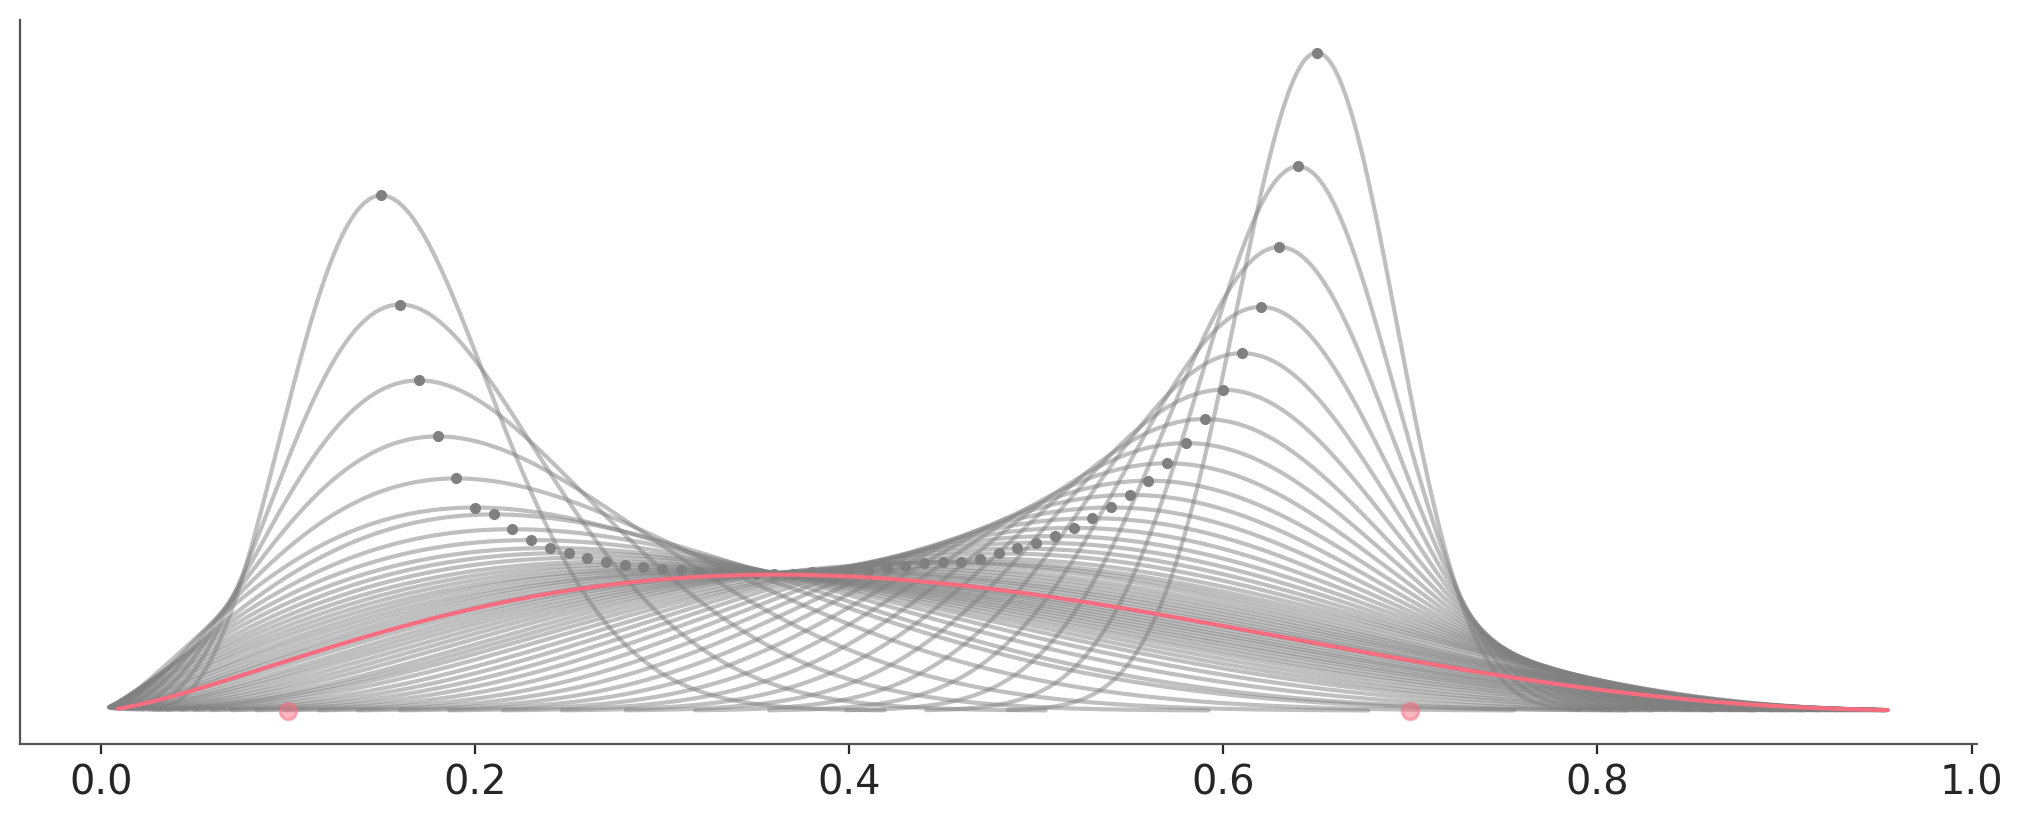
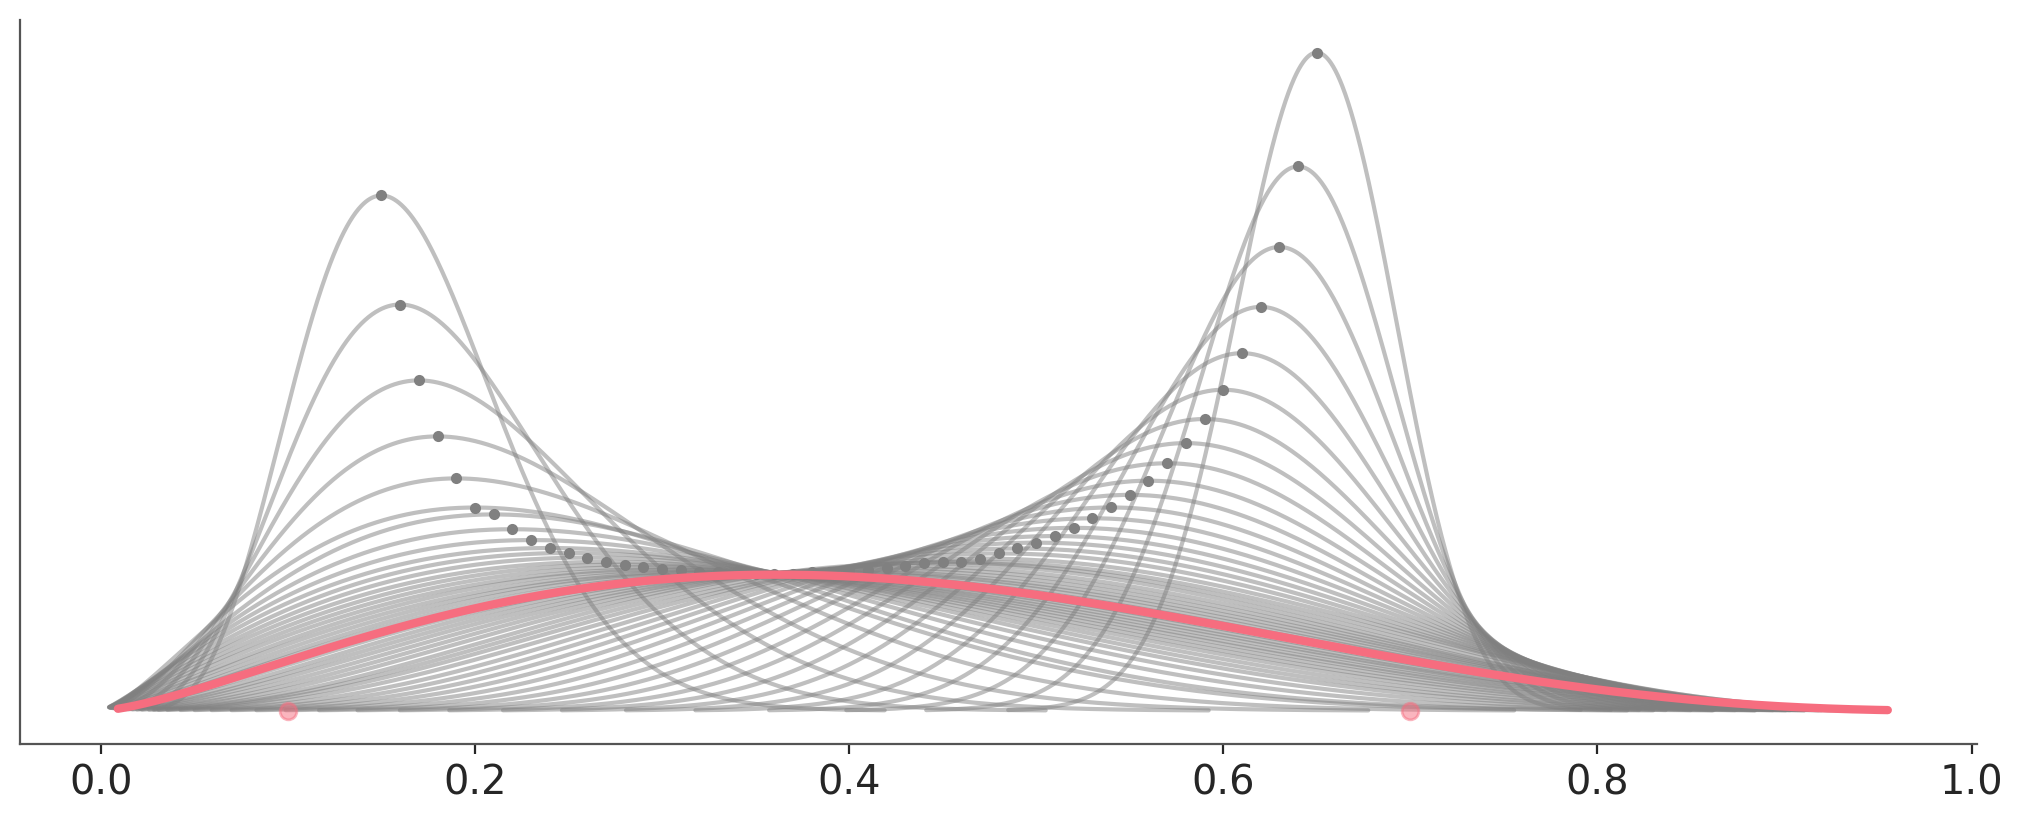
refine imgages (#75)

diff --git a/scripts/prior_vagueness.py b/scripts/prior_vagueness.py
@@ -12,7 +12,7 @@ _, ax = plt.subplots(1, 1, figsize=(12, 4))
 
 pz.Normal(0, 10).plot_cdf(ax=ax, legend=None)
 pz.Normal(0, 1.3).plot_cdf(ax=ax, legend=None)
-pz.Normal(0, 3.5).plot_cdf(ax=ax, legend=None)
+pz.Normal(0, 3.6).plot_cdf(ax=ax, legend=None)
 
 
 for line in ax.get_lines():
@@ -20,20 +20,21 @@ for line in ax.get_lines():
 
 
 alpha = 0.001
-for i in np.linspace(-6, 0, 100):
-    ax.fill_between([-i, i], -0.3, 1.3, alpha=alpha, color="0.3")
+for i in np.linspace(-6, 0, 150):
+    ax.fill_between([-i, i], -0.3, 1.3, alpha=alpha, color="0.5")
     alpha += 0.0001
 
 ax.legend([mpatches.Patch(color="0.75")], 
           ["as-yet unobserved data"])
 
+
 ax.set_ylim(-0.01, 1.01)
 ax.set_xticks([])
-ax.grid(False)
+ax.set_xlabel("observable data")
 
 # Add flexitext
 text = ("<size:18> Prior predictive distributions induced by\n"
         "<color:C0, weight:bold>vague</>, <color:C1, weight:bold>informative</>, and <color:C2, weight:bold>weakly informative </>priors</>")
-flexitext(0.27, 1, text, va="bottom", ma="center", xycoords="figure fraction");
+flexitext(0.27, 1.02, text, va="bottom", ma="center", xycoords="figure fraction");
 
 plt.savefig("../img/prior_vagueness.png")

diff --git a/scripts/max_ent.py b/scripts/max_ent.py
@@ -10,13 +10,13 @@ cons = [[{"type": "eq", "fun": lambda x: np.sum(x) - 1}],
         [{"type": "eq", "fun": lambda x: np.sum(x) - 1},
          {"type": "eq", "fun": lambda x: 30 - np.sum(x * np.arange(0, 120))}],
         [{"type": "eq", "fun": lambda x: np.sum(x) - 1},
-         {"type": "eq", "fun": lambda x: np.sum(x[range(72, 96)]) - 0.7}]]
+         {"type": "eq", "fun": lambda x: np.sum(x[range(60, 90)]) - 0.70}]]
 
 _, axes = plt.subplots(1, 3, figsize=(10, 3), sharey=True, constrained_layout=True)
 
 titles = ["No constraints",
-          "Mean 0.25",
-          "70% of the mass is\n betwen 0.6-0.8"]
+          "Mean=0.25",
+          "70% of the mass\n between 0.5-0.75"]
 
 for i, (c, ax, title) in enumerate(zip(cons, axes, titles)):    
     val = minimize(lambda x: -entropy(x), 
@@ -28,5 +28,6 @@ for i, (c, ax, title) in enumerate(zip(cons, axes, titles)):
     ax.plot(np.linspace(0, 1, 120), val, color=f"C{i}", lw=3)
     ax.set_yticks([])
     ax.set_title(title)
+    ax.axhline(0, color="0.75", ls="--", lw=1)
 
 plt.savefig("../img/max_ent.png")

diff --git a/scripts/beta_bounds.py b/scripts/beta_bounds.py
@@ -38,7 +38,6 @@ lower = 0.1
 upper = 0.7
 prob = 0.90
 mode = 0.5
-#dist = zero_iter(lower, upper, mode=mode, mass=prob)
 
 _, ax = plt.subplots(figsize=(10, 4))
 dist_ = pz.Beta()
@@ -47,9 +46,9 @@ for mode in np.arange(0.15, 0.66, 0.01):
     dist = one_iter(lower, upper, mode=mode, mass=prob)
     vals = dist.xvals("full")
     ax.plot(mode, np.max(dist.pdf(vals)), ".", color="0.5")
-#ax.set_xticks([])
 pz.maxent(dist_, lower, upper, prob, plot_kwargs={"legend":"None", "color":"C1"});
 for line in ax.get_lines()[::3]:
     line.remove()
+ax.get_lines()[-2].set_linewidth(2)
 
 plt.savefig("../img/beta_bounds.png")
